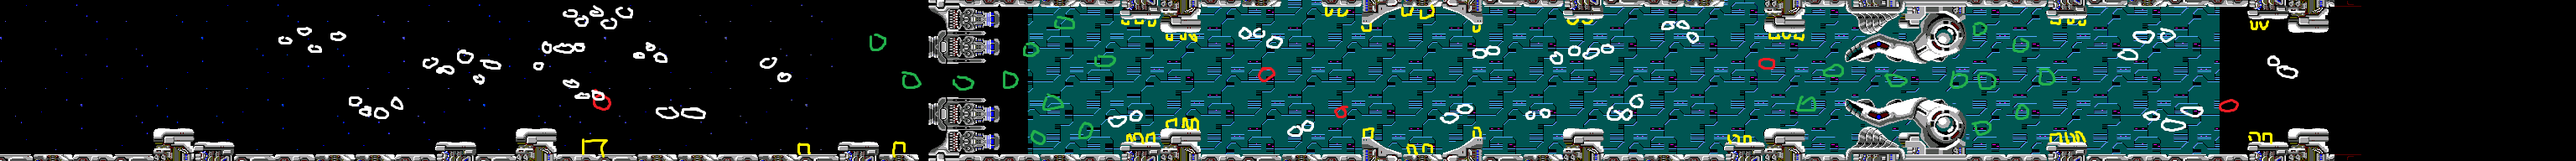
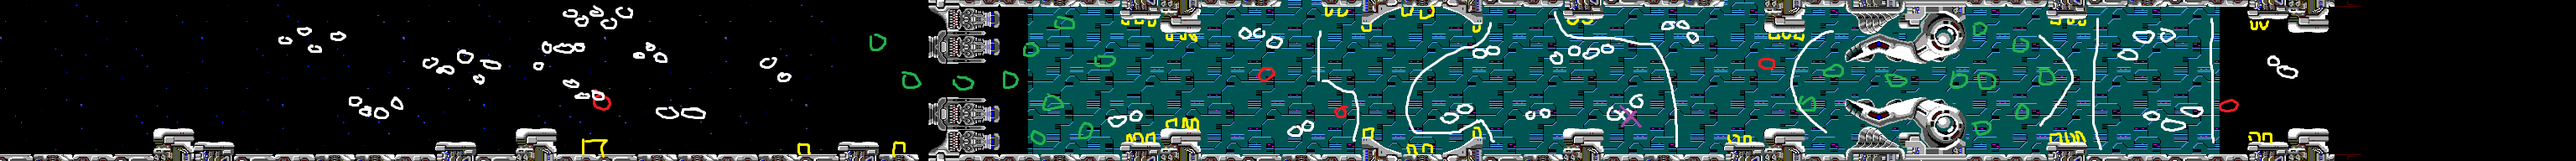
all enemies placed

diff --git a/2DGame/02-Bubble/02-Bubble/MapScene.cpp b/2DGame/02-Bubble/02-Bubble/MapScene.cpp
@@ -122,9 +122,6 @@ void MapScene::initlevel(int level)
 	object->init(glm::ivec2(SCREEN_X, SCREEN_Y), texProgram);
 	object->setPosition(glm::vec2(INIT_PLAYER_X_TILES * map->getTileSize()+208, INIT_PLAYER_Y_TILES * map->getTileSize() + 70));
 
-
-	
-	
 	//SHOOT
 	shoot = NULL;
 
@@ -154,6 +151,7 @@ void MapScene::initlevel(int level)
 	texs[0].loadFromFile(lvl, TEXTURE_PIXEL_FORMAT_RGBA);									//les imatges son profunditat 32bits
 	projection = glm::ortho(left, right, float(SCREEN_HEIGHT - 1), 0.f);
 	currentTime = 0.0f;
+
 	spritesheet.loadFromFile("images/312.png", TEXTURE_PIXEL_FORMAT_RGBA);
 	background = Sprite::createSprite(glm::ivec2(750, 192), glm::vec2(1.f, 1.f), &spritesheet, &texProgram);
 	background->setNumberAnimations(3);
@@ -217,7 +215,9 @@ void MapScene::update(int deltaTime)
 	player->sendcamera(left, right);
   
 	if (player != NULL && !gameover) {
-		if (object != NULL && (player->getPos().y - 10 < object->getPos().y && player->getPos().y + 20 > object->getPos().y) && (player->getPos().x  < object->getPos().x && player->getPos().x + 30 > object->getPos().x)) {
+		if (object != NULL && (player->getPos().y - 10 < object->getPos().y && player->getPos().y + 20 > object->getPos().y)
+			&& (player->getPos().x  < object->getPos().x && player->getPos().x + 30 > object->getPos().x)) 
+		{
 			force->setinscreen(true);
 			object = NULL;
 			force->setPosition(glm::vec2(left-20, INIT_PLAYER_Y_TILES * map->getTileSize() + 30));
@@ -227,43 +227,26 @@ void MapScene::update(int deltaTime)
 	
 
 		if (force->inScreen()) {
-			if ((player->getPos().y - 10 < force->getPos().y && player->getPos().y + 20 > force->getPos().y) && (player->getPos().x  < force->getPos().x && player->getPos().x + 30 > force->getPos().x)) force->setTaken(true);
-			if (force->istaken()) force->setPosition(glm::vec2(player->getPos().x + 28, player->getPos().y + 11));
-			else {
-
-				switch (num) {
-				case 1:
-					force->setPosition(glm::vec2(force->getPos().x + 1, force->getPos().y));
-					if (force->getPos().x > right - 50) num = rand() % 4 + 1;
-					break;
-				case 2:
-					force->setPosition(glm::vec2(force->getPos().x - 0.8, force->getPos().y));
-					if (force->getPos().x < left + 50) num = rand() % 4 + 1;
-					break;
-				case 3:
-					force->setPosition(glm::vec2(force->getPos().x, force->getPos().y - 0.8));
-					if (force->getPos().y < 30) num = rand() % 4 + 1;
-					break;
-				case 4:
-					force->setPosition(glm::vec2(force->getPos().x, force->getPos().y + 2));
-					if (force->getPos().y > 160) num = rand() % 4 + 1;
-					break;
-				}
-				if (rand() % 30 + 1 == 2) normalShootForce();
-			}
+			doForce();
 		}
 		force->update(deltaTime);
 
 		if (!enemies.empty()) {
-      for (int i = 0; i < enemies.size(); i++) {
-        enemy = enemies[i];
-        if (enemy != NULL) {
-          enemy->setRight(right);
-          enemy->setPlayerPosition(player->getPos());
-          enemy->update(deltaTime);
-        }
-      }
-    }
+		  for (int i = 0; i < enemies.size(); i++) {
+			enemy = enemies[i];
+			if (enemy != NULL) {
+			  enemy->setRight(right);
+			  enemy->setPlayerPosition(player->getPos());
+			  enemy->update(deltaTime);
+
+			  if (enemy->getPos().x < (left - 20)) {
+				  enemies[i] = NULL;
+			  }
+			}
+		  }
+		}
+
+		relocateEnemies();
 
 		bosss->update(deltaTime);
 		if (object != NULL) object->update(deltaTime);
@@ -363,7 +346,7 @@ void MapScene::render()
 	texProgram.setUniformMatrix4f("modelview", modelview);
 	texQuad[0]->render(texs[0]);
 
-	//map->render();
+	map->render();
 	if (!shoots.empty()) {
 		for (int i = 0; i < shoots.size(); i++) {
 			shoot = shoots[i];
@@ -512,6 +495,18 @@ void MapScene::relocateShoots()
 	}
 }
 
+void MapScene::relocateEnemies()
+{
+	if (!enemies.empty()) {
+		for (int i = 0; i < enemies.size(); i++) {
+			enemy = enemies[i];
+			if (enemy == NULL) {
+				enemies.erase(enemies.begin() + i);
+			}
+		}
+	}
+}
+
 void MapScene::createEnemy(int type, glm::vec2 pos)
 {
 	enemy = new Enemy();
@@ -549,64 +544,64 @@ void MapScene::clear()
 
 void MapScene::initEnemiesOnMap()
 {
-	//primera orde
+	//1a orde
 	createEnemy(1, glm::vec2(83, 14));
 	createEnemy(1, glm::vec2(89, 10));
 	createEnemy(1, glm::vec2(92, 15));
 	createEnemy(1, glm::vec2(99, 11));
 	
-	//segona orde
+	//2a orde
 	createEnemy(1, glm::vec2(104, 31));
 	createEnemy(1, glm::vec2(107, 34));
 	createEnemy(1, glm::vec2(112, 34));
 	createEnemy(1, glm::vec2(117, 31));
 	
-	//tercera orde
+	//3a orde
 	createEnemy(1, glm::vec2(126, 20));
 	createEnemy(1, glm::vec2(131, 21));
 	createEnemy(1, glm::vec2(136, 17));
 	createEnemy(1, glm::vec2(141, 23));
 	createEnemy(1, glm::vec2(144, 19));
 	
-	//quarta orde
+	//4ta orde
 	createEnemy(1, glm::vec2(159, 20));
 	createEnemy(1, glm::vec2(162, 15));
 	createEnemy(1, glm::vec2(166, 14));
 	createEnemy(1, glm::vec2(171, 15));
 	
-	//cinquena orde
+	//5a orde
 	createEnemy(1, glm::vec2(168, 4));
 	createEnemy(1, glm::vec2(172, 6));
 	createEnemy(1, glm::vec2(176, 4));
 	createEnemy(1, glm::vec2(180, 6));
 	createEnemy(1, glm::vec2(184, 4));
-	//sisena orde
+	//6a orde
 	createEnemy(1, glm::vec2(168, 25));
 	createEnemy(1, glm::vec2(172, 29));
 	createEnemy(1, glm::vec2(177, 29));
 
-	//primera orde torreta terra
+	//1a orde torreta terra
 	createEnemy(21, glm::vec2(174, 40));
 	
-	//primer rodo
+	//1a rodo
 	createEnemy(3, glm::vec2(180, 20));
 	
-	//setena orde
+	//7a orde
 	createEnemy(1, glm::vec2(189, 17));
 	createEnemy(1, glm::vec2(193, 14));
 	createEnemy(1, glm::vec2(195, 17));
 	createEnemy(1, glm::vec2(196, 34));
 	createEnemy(1, glm::vec2(204, 34));
 	
-	//vuitena orde
+	//8a orde
 	createEnemy(1, glm::vec2(226, 19));
 	createEnemy(1, glm::vec2(232, 24));
 
-	//segona orde torreta terra
+	//2a orde torreta terra
 	createEnemy(21, glm::vec2(238, 40));
 	createEnemy(21, glm::vec2(266, 40));
 	
-	//primera orde cap llarg
+	//1a orde cap llarg
 	createEnemy(4, glm::vec2(257, 13));
 	createEnemy(4, glm::vec2(270, 24));
 	createEnemy(4, glm::vec2(285, 22));
@@ -618,11 +613,11 @@ void MapScene::initEnemiesOnMap()
 	createEnemy(4, glm::vec2(322, 39));
 	createEnemy(4, glm::vec2(327, 19));
 	
-	//novena orde
+	//9a orde
 	createEnemy(1, glm::vec2(332, 32));
 	createEnemy(1, glm::vec2(338, 30));
 
-	//tercera orde torreta terra
+	//3a orde torreta terra
 	createEnemy(21, glm::vec2(334, 36));				
 	createEnemy(21, glm::vec2(337, 36));
 	createEnemy(21, glm::vec2(340, 36));
@@ -630,7 +625,7 @@ void MapScene::initEnemiesOnMap()
 	createEnemy(21, glm::vec2(348, 32));
 	createEnemy(21, glm::vec2(351, 32));
 
-	//primera orde torreta sostre
+	//1a orde torreta sostre
 	createEnemy(22, glm::vec2(334, 5));
 	createEnemy(22, glm::vec2(337, 5));
 	createEnemy(22, glm::vec2(340, 5));
@@ -638,18 +633,144 @@ void MapScene::initEnemiesOnMap()
 	createEnemy(22, glm::vec2(348, 10));
 	createEnemy(22, glm::vec2(351, 10));
 
-	//desena orde
+	//10a orde
 	createEnemy(1, glm::vec2(370, 11));
 	createEnemy(1, glm::vec2(374, 11));
 	createEnemy(1, glm::vec2(378, 14));
 
-	//segona orde rodo
+	//2a orde rodo
 	createEnemy(3, glm::vec2(376, 24));
 	createEnemy(3, glm::vec2(398, 33));
 
-	//onzena orde
+	//11a orde
 	createEnemy(1, glm::vec2(384, 39));
 	createEnemy(1, glm::vec2(390, 38));
+
+	//3a orde torreta terra
+	createEnemy(21, glm::vec2(404, 35));
+	createEnemy(21, glm::vec2(419, 40));
+	createEnemy(21, glm::vec2(422, 40));
+	createEnemy(21, glm::vec2(437, 35));
+
+	//2a orde torreta sostre
+	createEnemy(22, glm::vec2(395, 2));
+	createEnemy(22, glm::vec2(398, 2));
+	createEnemy(22, glm::vec2(404, 7));
+	createEnemy(22, glm::vec2(419, 2));
+	createEnemy(22, glm::vec2(422, 2));
+	createEnemy(22, glm::vec2(437, 7));
+
+	//12a orde
+	createEnemy(1, glm::vec2(430, 36));
+	createEnemy(1, glm::vec2(436, 35));
+	createEnemy(1, glm::vec2(439, 16));
+	createEnemy(1, glm::vec2(445, 15));
+
+	//13a orde
+	createEnemy(1, glm::vec2(455, 35));
+	createEnemy(1, glm::vec2(460, 34));
+	createEnemy(1, glm::vec2(463, 17));
+	createEnemy(1, glm::vec2(468, 16));
+	createEnemy(1, glm::vec2(473, 17));
+	createEnemy(1, glm::vec2(478, 16));
+
+	//14a orde
+	createEnemy(1, glm::vec2(480, 34));
+	createEnemy(1, glm::vec2(487, 32));
+
+	//3a orde torreta sostre
+	createEnemy(22, glm::vec2(467, 5));
+	createEnemy(22, glm::vec2(470, 5));
+	createEnemy(22, glm::vec2(525, 9));
+	createEnemy(22, glm::vec2(528, 9));
+	createEnemy(22, glm::vec2(531, 9));
+	
+	//15a orde
+	createEnemy(1, glm::vec2(495, 9));
+	createEnemy(1, glm::vec2(500, 8));
+	createEnemy(1, glm::vec2(504, 12));
+
+	//3a orde rodo
+	createEnemy(3, glm::vec2(525, 20));
+
+	//4a orde torreta terra
+	createEnemy(21, glm::vec2(516, 36));
+	createEnemy(21, glm::vec2(519, 36));
+
+	//2a orde cap llarg
+	createEnemy(4, glm::vec2(537, 31));
+	createEnemy(4, glm::vec2(545, 22));
+	createEnemy(4, glm::vec2(563, 24));
+	createEnemy(4, glm::vec2(582, 25));
+	createEnemy(4, glm::vec2(590, 26));
+	createEnemy(4, glm::vec2(590, 11));
+	createEnemy(4, glm::vec2(590, 39));
+	createEnemy(4, glm::vec2(600, 14));
+	createEnemy(4, glm::vec2(600, 34));
+	createEnemy(4, glm::vec2(608, 24));
+	
+	//4a orde torreta sostre
+	createEnemy(22, glm::vec2(609, 5));
+	createEnemy(22, glm::vec2(612, 5));
+	createEnemy(22, glm::vec2(615, 5));
+	
+
+	//5a orde torreta terra
+	createEnemy(21, glm::vec2(609, 36));
+	createEnemy(21, glm::vec2(612, 36));
+	createEnemy(21, glm::vec2(615, 36));
+	
+
+	//16a orde
+	createEnemy(1, glm::vec2(632, 17));
+	createEnemy(1, glm::vec2(639, 13));
+	createEnemy(1, glm::vec2(647, 12));
+	createEnemy(1, glm::vec2(639, 35));
+	createEnemy(1, glm::vec2(645, 38));
+	createEnemy(1, glm::vec2(652, 34));
+
+	//4a orde rodo
+	createEnemy(3, glm::vec2(662, 31));
+
+	//16a orde
+	createEnemy(1, glm::vec2(676, 19));
+	createEnemy(1, glm::vec2(681, 21));
+
+	//5a orde torreta sostre
+	createEnemy(22, glm::vec2(672, 5));
+	createEnemy(22, glm::vec2(675, 5));
+
+	//6a orde torreta terra
+	createEnemy(21, glm::vec2(672, 36));
+	createEnemy(21, glm::vec2(675, 36));
+}
+
+void MapScene::doForce()
+{
+	if ((player->getPos().y - 10 < force->getPos().y && player->getPos().y + 20 > force->getPos().y) && (player->getPos().x  < force->getPos().x && player->getPos().x + 30 > force->getPos().x)) force->setTaken(true);
+	if (force->istaken()) force->setPosition(glm::vec2(player->getPos().x + 28, player->getPos().y + 11));
+	else {
+
+		switch (num) {
+		case 1:
+			force->setPosition(glm::vec2(force->getPos().x + 1, force->getPos().y));
+			if (force->getPos().x > right - 50) num = rand() % 4 + 1;
+			break;
+		case 2:
+			force->setPosition(glm::vec2(force->getPos().x - 0.8, force->getPos().y));
+			if (force->getPos().x < left + 50) num = rand() % 4 + 1;
+			break;
+		case 3:
+			force->setPosition(glm::vec2(force->getPos().x, force->getPos().y - 0.8));
+			if (force->getPos().y < 30) num = rand() % 4 + 1;
+			break;
+		case 4:
+			force->setPosition(glm::vec2(force->getPos().x, force->getPos().y + 2));
+			if (force->getPos().y > 160) num = rand() % 4 + 1;
+			break;
+		}
+		if (rand() % 30 + 1 == 2) normalShootForce();
+	}
 }
 
 float MapScene::getLeft()

diff --git a/2DGame/02-Bubble/02-Bubble/Enemy.cpp b/2DGame/02-Bubble/02-Bubble/Enemy.cpp
@@ -88,8 +88,8 @@ void Enemy::init(Texture& spritesheet, const glm::ivec2& tileMapPos, ShaderProgr
 void Enemy::update(int deltaTime)
 {
 	sprite->update(deltaTime);
-	if (right > posEnemy.x)
-		move();
+	if ((right-7) > posEnemy.x)
+		//move();
 	sprite->setPosition(glm::vec2(float(tileMapDispl.x + posEnemy.x), float(tileMapDispl.y + posEnemy.y)));
 }
 

diff --git a/2DGame/02-Bubble/02-Bubble/MapScene.h b/2DGame/02-Bubble/02-Bubble/MapScene.h
@@ -42,9 +42,11 @@ public:
 	void powerBossShoot();
 	void charge();
 	void relocateShoots();
+	void relocateEnemies();
 	void createEnemy(int type, glm::vec2 pos);
 	void clear();
 	void initEnemiesOnMap();
+	void doForce();
 
 private:
 	//void initShaders();
